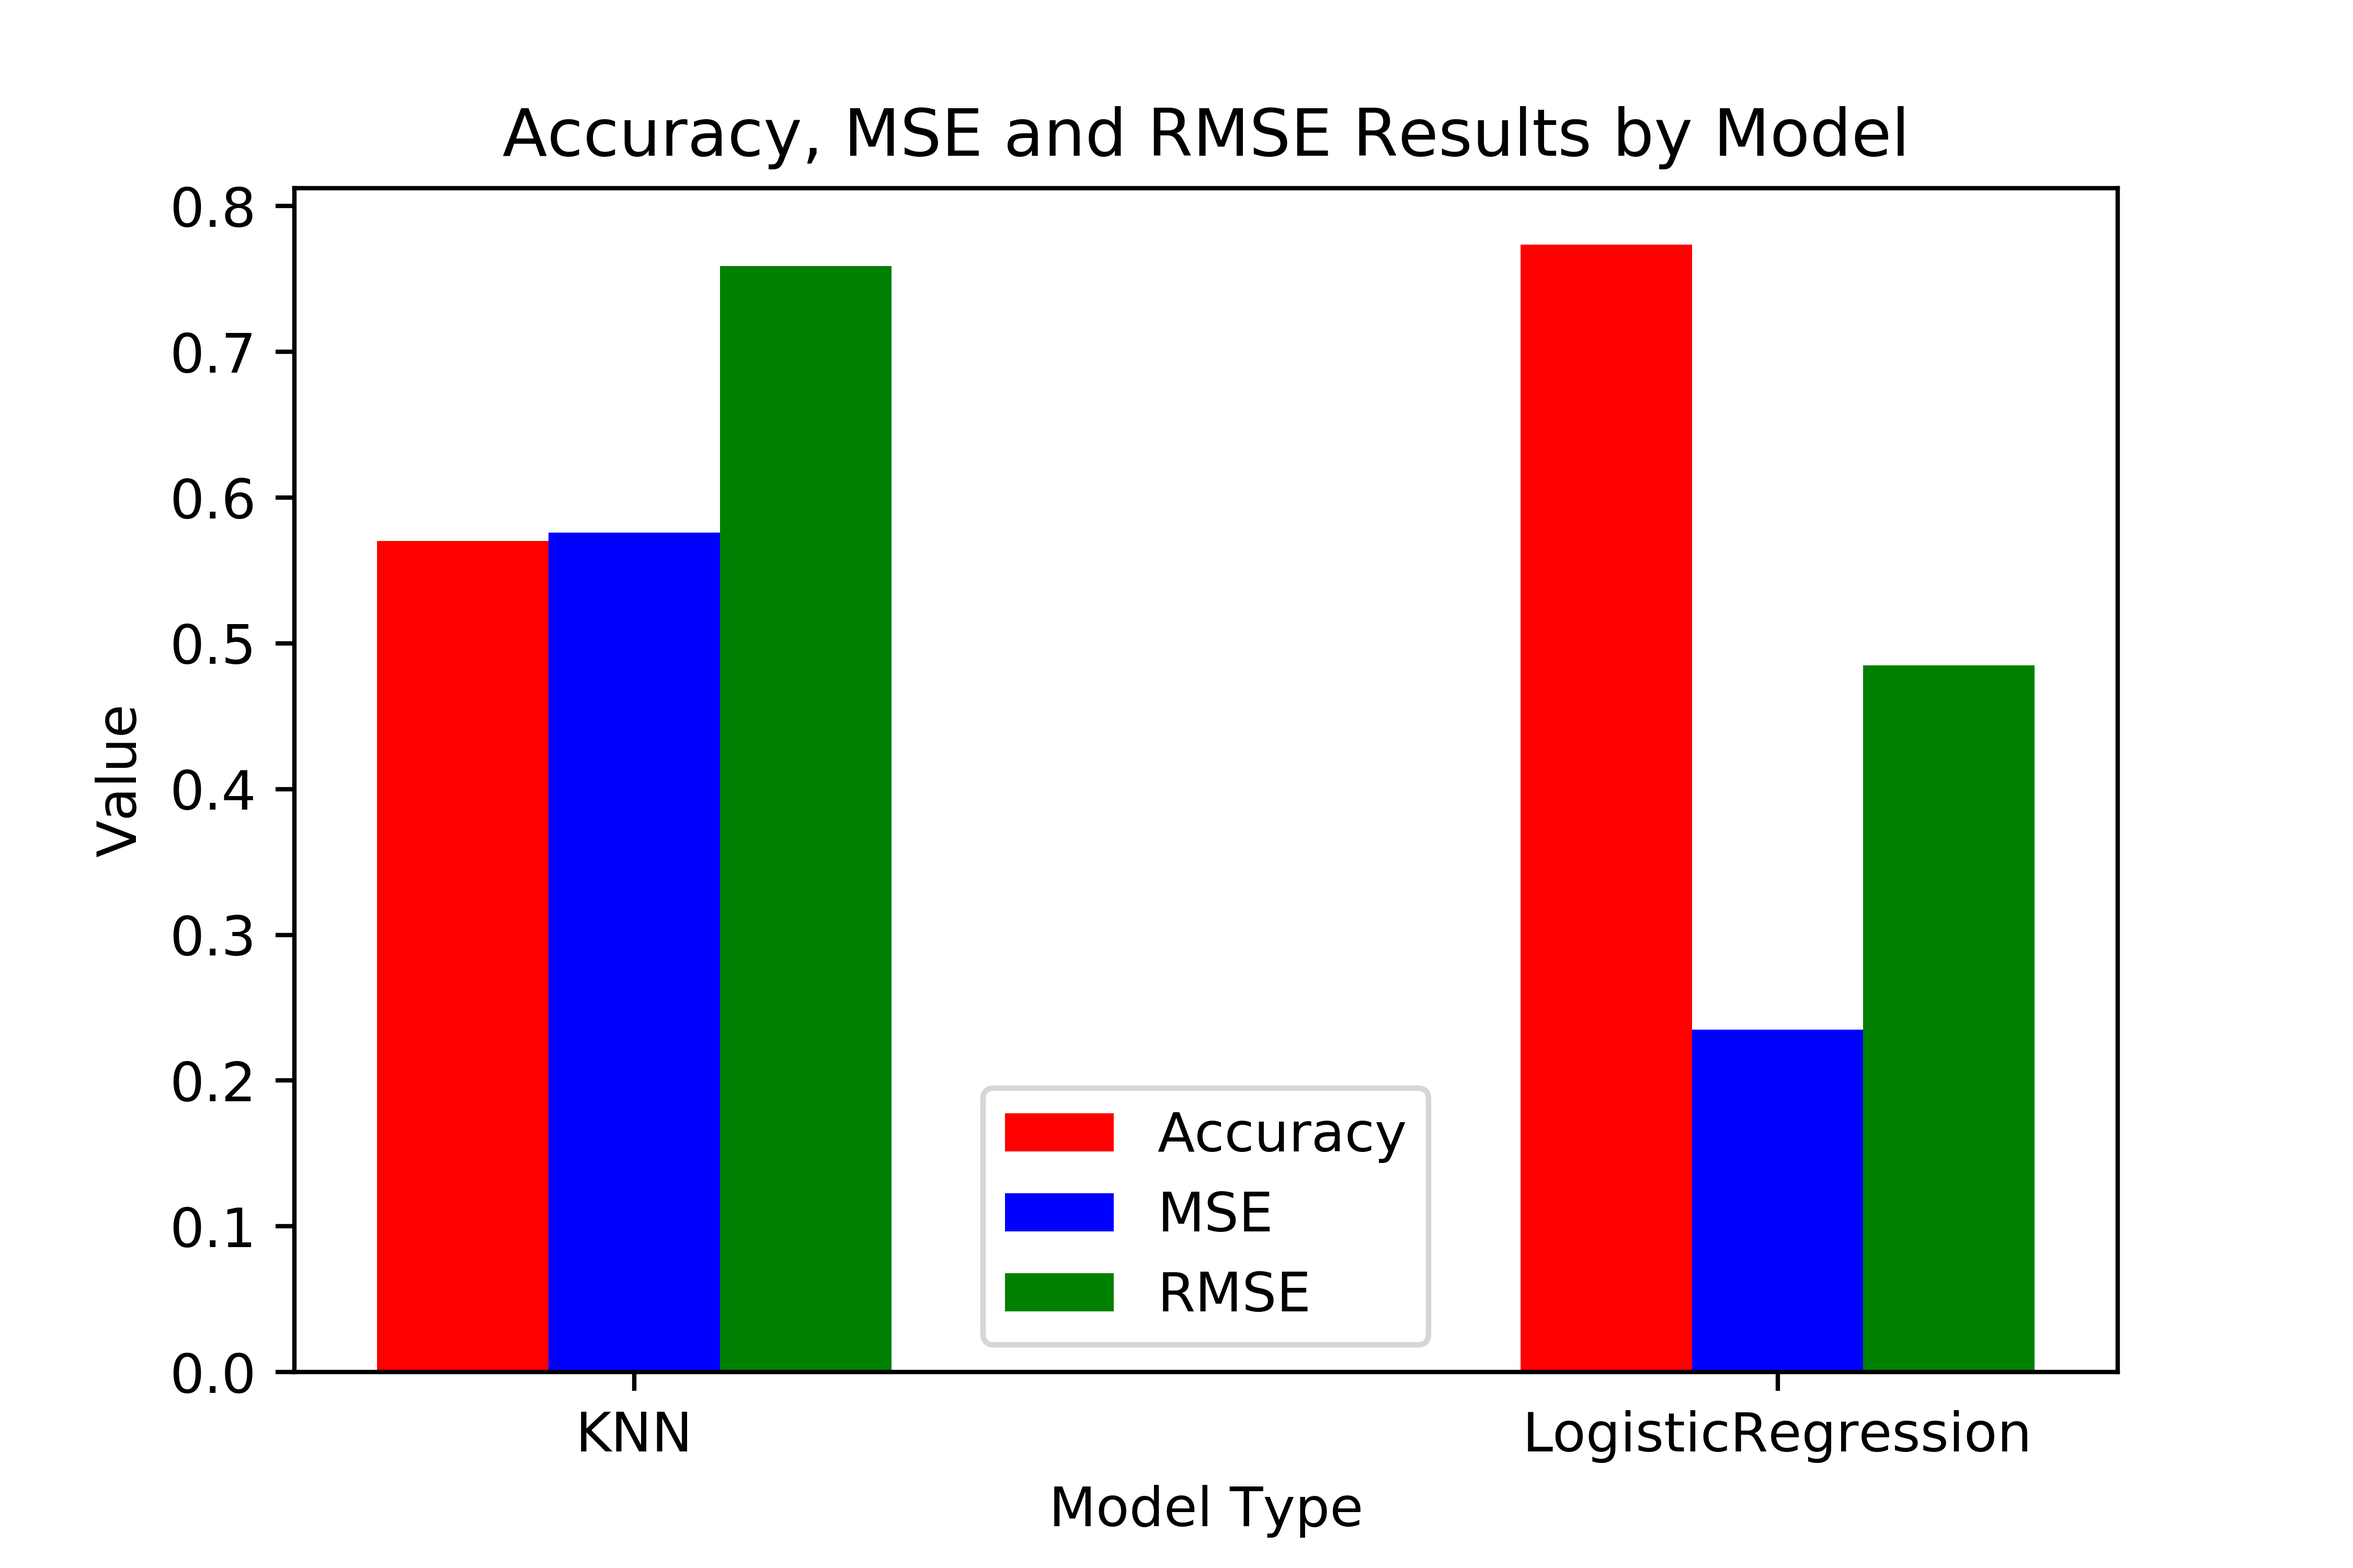
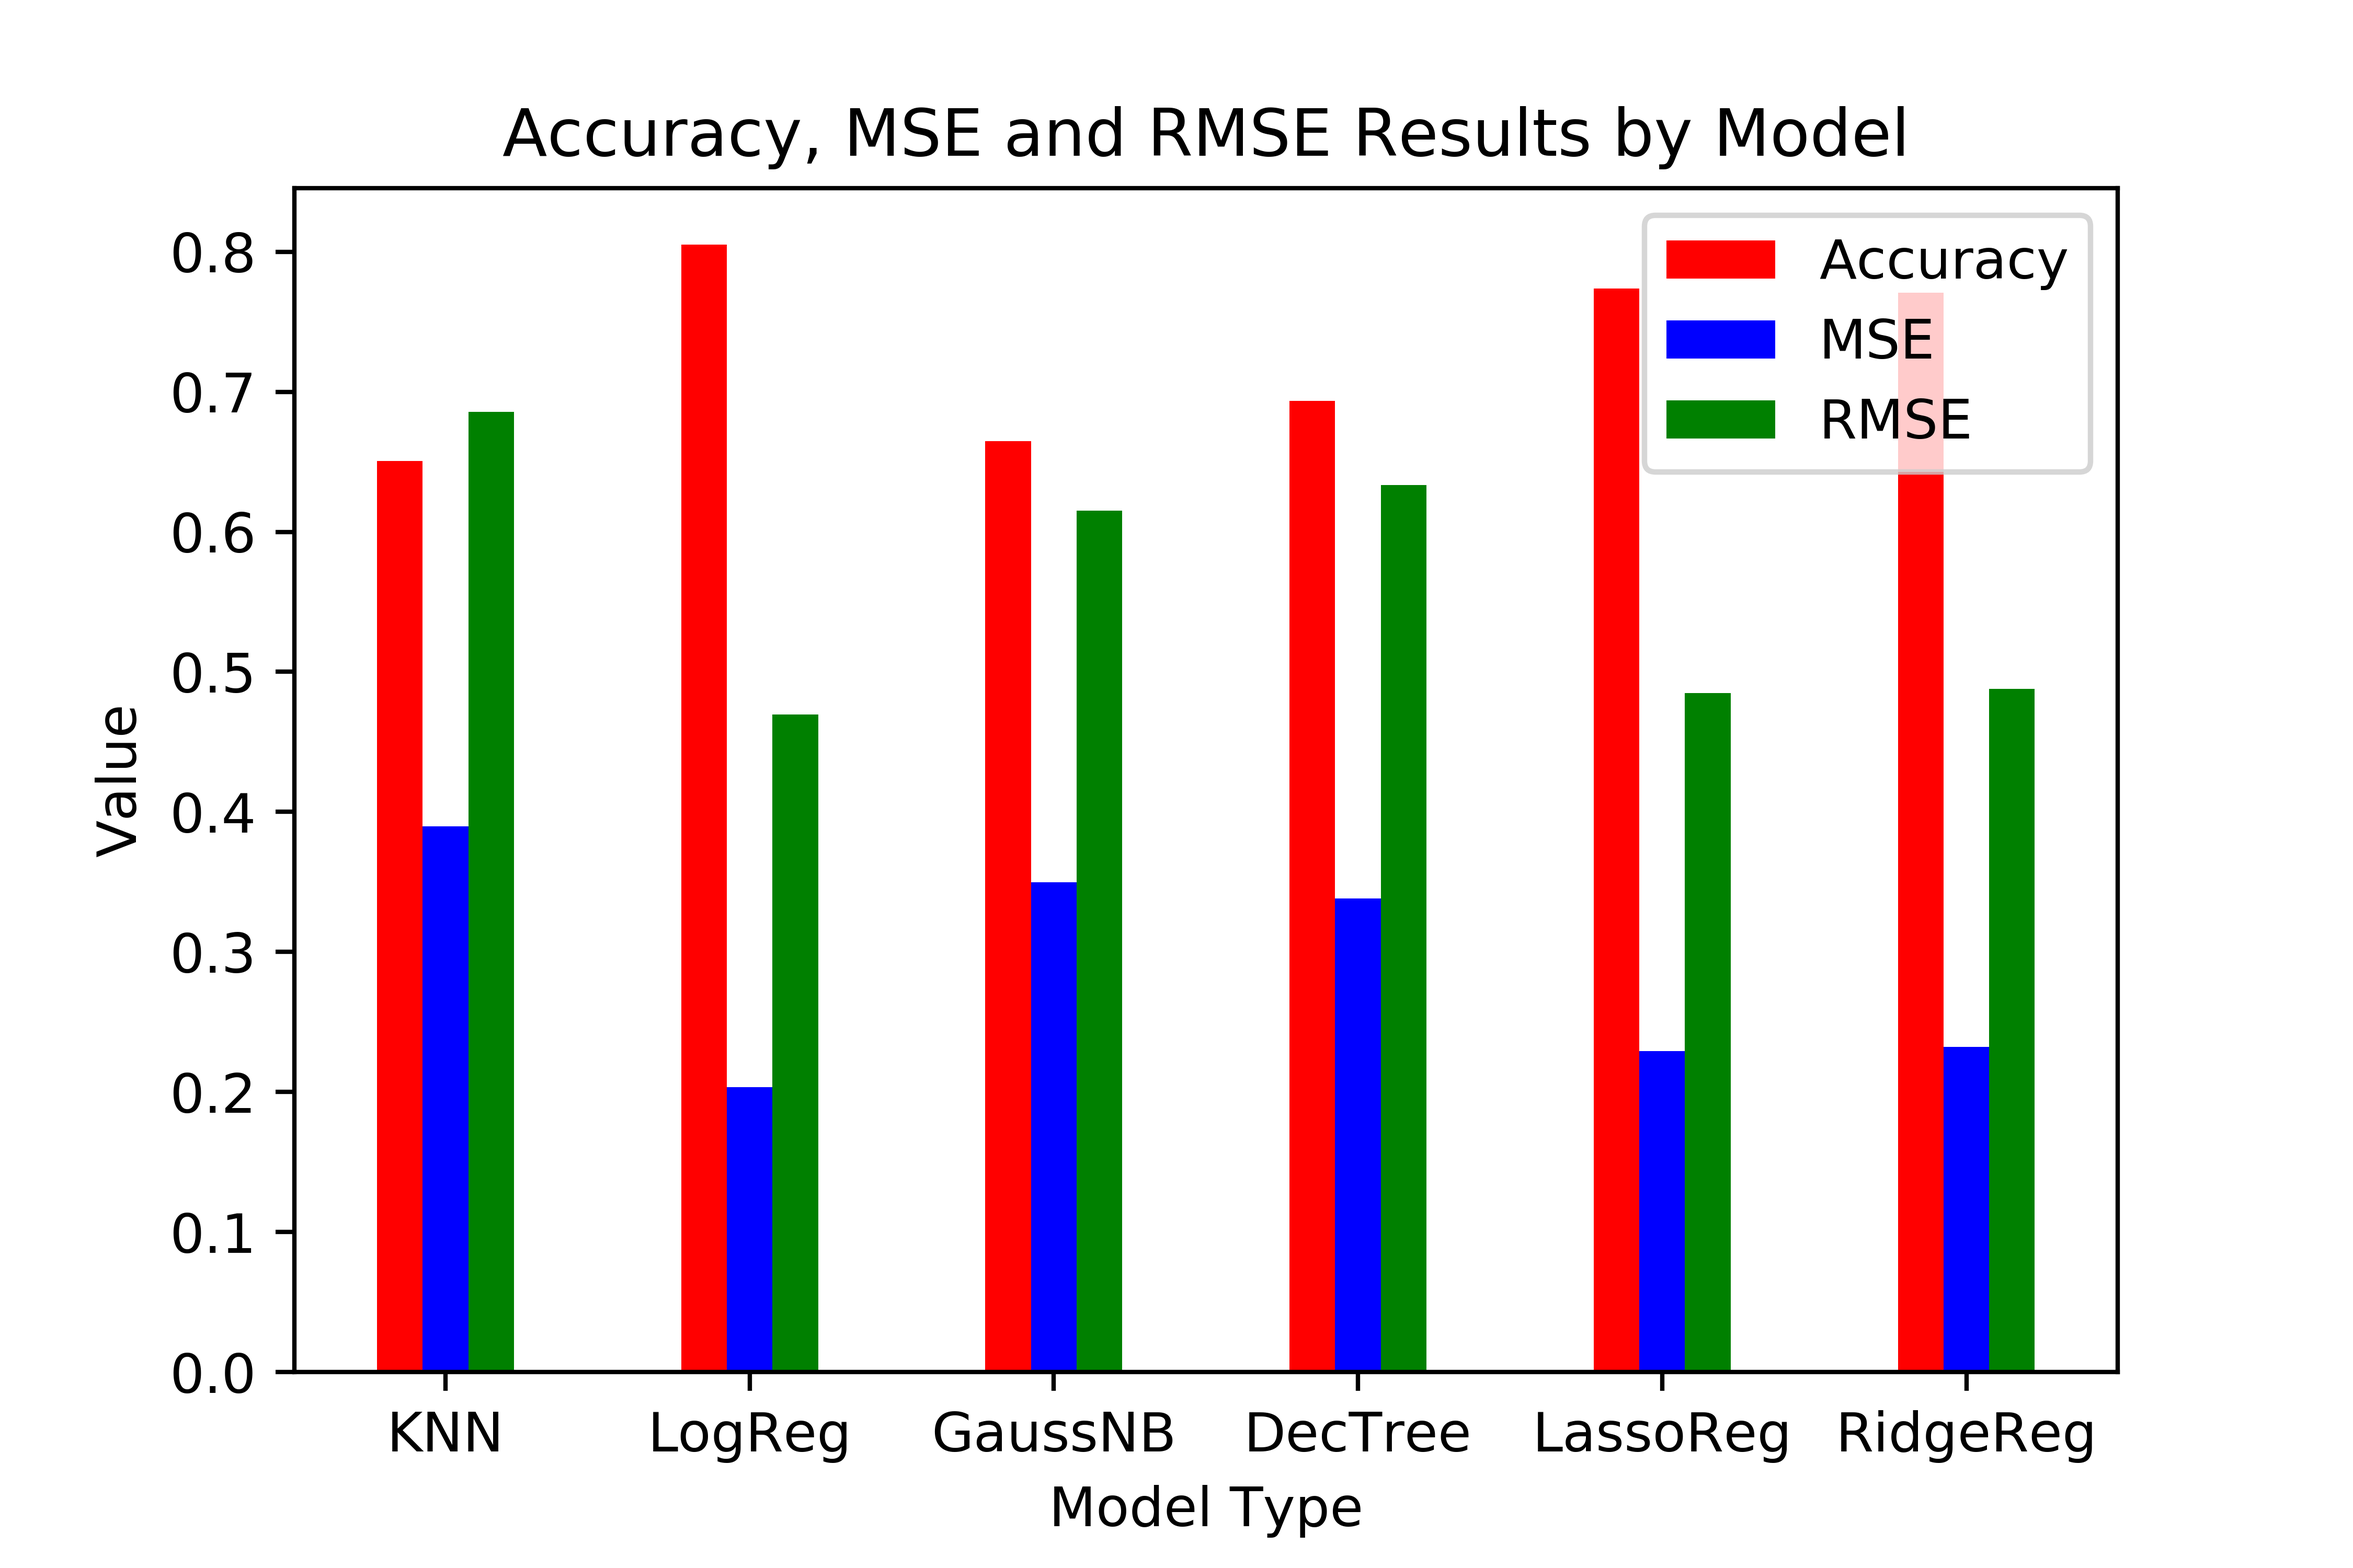
Added some charts and updated code a bit.

diff --git a/main.py b/main.py
@@ -54,7 +54,7 @@ def main():
     testing_data = processed_tables[1]
 
     # Create Model
-    m_name = 'logistic regression'.upper()
+    m_name = 'logistic Regression'.upper()
     if m_name == 'GAUSS':
         model = GaussianNB()
     elif m_name == 'DECISION TREE':
@@ -352,17 +352,17 @@ def create_scatter(predictions, true_values, model):
     plt.savefig(savefig, dpi=750)
     
 def create_results_bar():
-    ind = np.arange(2)
-    results_acc = [0.570200573, 0.773638968]
-    results_mse = [0.57593123, 0.23495702]
-    results_rmse = [0.75890133225, 0.484723653288]
+    ind = np.arange(6)
+    results_acc = [0.650429799, 0.80515759, 0.66475644, 0.69340974, 0.773638968, 0.7707736389]
+    results_rmse = [0.6855027644, 0.4697130746, 0.6149987769, 0.63336098, 0.48472365, 0.487670329]
+    results_mse = [0.389684813, 0.203438295, 0.34957020057, 0.3381088825, 0.229226361, 0.2320916905]
     width = 0.15
     fig, ax = plt.subplots()
     results_bar1 = ax.bar(ind-width, results_acc, width, color='r')
     results_bar2 = ax.bar(ind, results_mse, width, color='b')
     results_bar3 = ax.bar(ind+ width, results_rmse, width, color='g')
     ax.set_xticks(ind)
-    ax.set_xticklabels(('KNN', 'LogisticRegression'))
+    ax.set_xticklabels(('KNN', 'LogReg', 'GaussNB', 'DecTree', 'LassoReg', 'RidgeReg'))
     ax.set_xlabel('Model Type')
     ax.set_ylabel('Value')
     ax.legend((results_bar1[0], results_bar2[0], results_bar3[0]), ('Accuracy', 'MSE', 'RMSE'))
